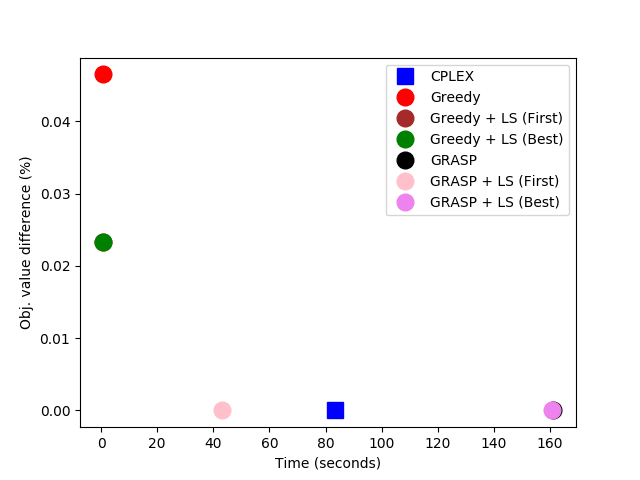
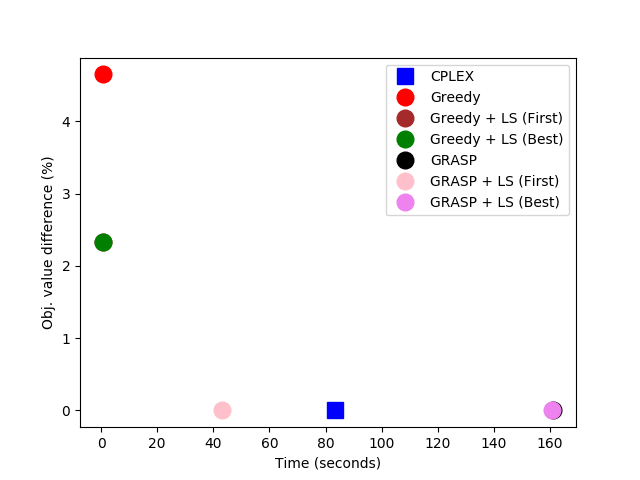
finish project

Changed region(s): [[0.0312, 0.3125, 0.125, 0.7188], [0.0625, 0.8438, 0.125, 0.875], [0.0625, 0.25, 0.0938, 0.2812]]

diff --git a/plot_results.py b/plot_results.py
@@ -3,7 +3,7 @@ import matplotlib.pyplot as plt
 
 # Creating a numpy array
 X = np.array([83.53, 0.60787606, 0.56355, 0.52685404, 161.22519922, 43, 160.5706632])
-Y = np.array([0, (180 - 172) / 172, (176 - 172) / 172, (176 - 172) / 172, 0, 0, 0])
+Y = np.array([0, (180 - 172) / 172, (176 - 172) / 172, (176 - 172) / 172, 0, 0, 0]) * 100
 
 plt.xlabel('Time (seconds)')
 plt.ylabel('Obj. value difference (%)')
@@ -19,7 +19,7 @@ plt.savefig('plots/performance0.png')
 plt.show()
 #######################
 X = np.array([247.82, 6.1330142, 6.13849497, 4.53772783, 150.2052989, 242.9250381, 279.083453])
-Y = np.array([0, (183 - 157) / 157, (179 - 157) / 157, (179 - 157) / 157, (179 - 157) / 157, (192 - 157) / 157, (194 - 157) / 157])
+Y = np.array([0, (183 - 157) / 157, (179 - 157) / 157, (179 - 157) / 157, (179 - 157) / 157, (192 - 157) / 157, (194 - 157) / 157]) * 100
 
 plt.xlabel('Time (seconds)')
 plt.ylabel('Obj. value difference (%)')
@@ -36,7 +36,7 @@ plt.show()
 
 ########################
 X = np.array([344.53, 0.72352099, 0.75220394, 0.77671599, 7.54188013, 2.10909414, 1.93550706])
-Y = np.array([0, (339 - 272) / 272, (339 - 272) / 272, (317 - 272) / 272, (292 - 272) / 272, (292 - 272) / 272, (292 - 272) / 272])
+Y = np.array([0, (339 - 272) / 272, (339 - 272) / 272, (317 - 272) / 272, (292 - 272) / 272, (292 - 272) / 272, (292 - 272) / 272]) * 100
 
 plt.xlabel('Time (seconds)')
 plt.ylabel('Obj. value difference (%)')
@@ -53,7 +53,7 @@ plt.show()
 
 ########################
 X = np.array([822.54, 16.2120938, 14.08670282, 17.13206673, 81.23526192, 21.24188709, 21.86853886])
-Y = np.array([0, (502 - 335) / 335, (346 - 335) / 335, (346 - 335) / 335, (453 - 335) / 335, (346 - 335) / 335, (335 - 335) / 335])
+Y = np.array([0, (502 - 335) / 335, (346 - 335) / 335, (346 - 335) / 335, (453 - 335) / 335, (346 - 335) / 335, (335 - 335) / 335]) * 100
 
 plt.xlabel('Time (seconds)')
 plt.ylabel('Obj. value difference (%)')
@@ -70,7 +70,7 @@ plt.show()
 
 ########################
 X = np.array([1354, 15.9951348, 15.43929505, 22.12564182, 40.32106233, 115.57565212, 165.2543807])
-Y = np.array([0, (163 - 160) / 160, (163 - 160) / 160, (163 - 160) / 160, (174 - 160) / 160, (163 - 160) / 160, (163 - 160) / 160])
+Y = np.array([0, (163 - 160) / 160, (163 - 160) / 160, (163 - 160) / 160, (174 - 160) / 160, (163 - 160) / 160, (163 - 160) / 160]) * 100
 
 plt.xlabel('Time (seconds)')
 plt.ylabel('Obj. value difference (%)')
